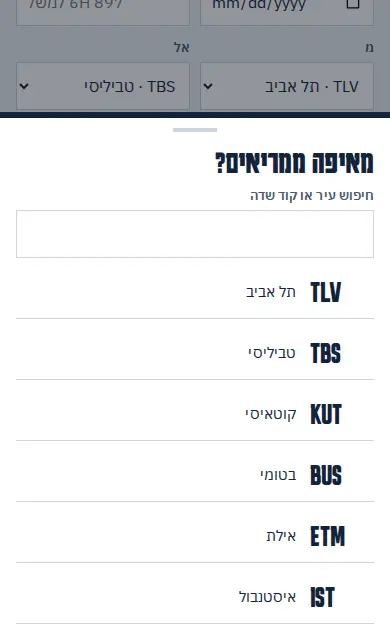
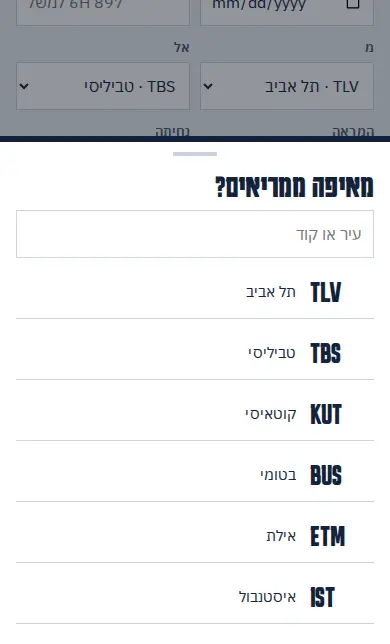
סבב 18: ההצעות בלי שורות הסבר, לפי הכיוון של פחות טקסט
Claude-Session: https://claude.ai/code/session_018WEovaqXC4kNabe89Cnwoj

Changed region(s): [[0.0, 0.1553, 1.0, 0.3106], [0.7692, 0.3416, 0.9231, 0.3727]]

diff --git a/design/canvas/project/R18-0-Decide.dc.html b/design/canvas/project/R18-0-Decide.dc.html
@@ -12,9 +12,9 @@
 body{margin:0;background:#EEF2F5}
 </style>
 </helmet>
-<div style="width: 600px; height: 1380px; box-sizing: border-box; padding: 28px; background: #FFFFFF; color: #13233A; font-family: 'IBM Plex Sans Hebrew', system-ui, sans-serif; direction: rtl; border-top: 8px solid #1F5FC4"><h1 style="margin: 0; font-family: Karantina, 'Arial Narrow', sans-serif; font-size: 52px; line-height: 1">מה לאשר בסבב 18</h1><p style="margin: 8px 0 14px; font-size: 14.5px; line-height: 1.55; color: #4B5A6F">ביקשת יישור מלא בין האתר לאפליקציה (החלטות 50 ו-57). כאן כל מה שמחכה למבט שלך לפני קוד: לכל פריט, מה יש היום בכל צד ומה מוצע. באתר ההצעות מצוירות בתוך האתר האמיתי, ובאפליקציה מעל צילומים מהאמולטור. השמות מומצאים. ברירת המחדל: הצד שחסר מתיישר לצד שיש לו, ובמראה האפליקציה מתיישרת לאתר.</p><ol style="margin: 0; padding: 0; list-style: none"><li style="display: flex; flex-direction: column; gap: 2px; padding: 9px 0; border-top: 1px solid #CBD5DF"><b style="font-size: 16px">1. K-2 · טיסת החזור באתר</b><span style="font-size: 14px; line-height: 1.55; color: #4B5A6F">כרטיס לכל טיסה, הלוך וחזור, לפי התאריך, כל אחד עם מי שעליו ו&quot;אני על אותה טיסה&quot;. בכרטיס של האתר.</span></li><li style="display: flex; flex-direction: column; gap: 2px; padding: 9px 0; border-top: 1px solid #CBD5DF"><b style="font-size: 16px">2. K-3 · מילוי טיסה לחבר באתר</b><span style="font-size: 14px; line-height: 1.55; color: #4B5A6F">קודם בחירה מהטיסות שכבר בקבוצה; &quot;טיסה אחרת&quot; פותחת את הטופס המלא של &quot;הטיול שלך&quot;, &quot;הטיסה של &lt;שם&gt;&quot;.</span></li><li style="display: flex; flex-direction: column; gap: 2px; padding: 9px 0; border-top: 1px solid #CBD5DF"><b style="font-size: 16px">3. K-3 · מפגשים באתר</b><span style="font-size: 14px; line-height: 1.55; color: #4B5A6F">מחיקה בשתי נגיעות (&quot;בטוח? לחיצה נוספת מוחקת&quot;), נגיעה בשורה פותחת את כרטיס המפגש, ובלי קליטה הערה עם השעה במקום שגיאה אדומה.</span></li><li style="display: flex; flex-direction: column; gap: 2px; padding: 9px 0; border-top: 1px solid #CBD5DF"><b style="font-size: 16px">4. K-4 · &quot;הקבוצות שלי&quot; באפליקציה</b><span style="font-size: 14px; line-height: 1.55; color: #4B5A6F">הרשימה של האתר בדף החשבון, לפי תאריך ההתחלה.</span></li><li style="display: flex; flex-direction: column; gap: 2px; padding: 9px 0; border-top: 1px solid #CBD5DF"><b style="font-size: 16px">5. K-5 · שדות התעופה באתר</b><span style="font-size: 14px; line-height: 1.55; color: #4B5A6F">הגיליון עם החיפוש של האפליקציה.</span></li><li style="display: flex; flex-direction: column; gap: 2px; padding: 9px 0; border-top: 1px solid #CBD5DF"><b style="font-size: 16px">6. K-5 · שאלה: מה מותר להקליד</b><span style="font-size: 14px; line-height: 1.55; color: #4B5A6F"><b style="color: #13233A">ההמלצה שלי: מהרשימה, או קוד של שלוש אותיות שלא ברשימה, בלי שם חופשי, ואותו כלל בשני הצדדים.</b> הכרטיס בדף הבית מציג את השדה באותיות ענק, ושם חופשי (&quot;ברלין שנפלד&quot;) שובר אותו ואת הקיבוץ של &quot;מי טס יחד&quot;. מי שטס משדה נדיר מקליד את הקוד מהכרטיס שלו. המחיר: באפליקציה נעלם השם החופשי שקיים היום. החלופה: שם חופשי בשני הצדדים, והכרטיס מקצר אותו.</span></li><li style="display: flex; flex-direction: column; gap: 2px; padding: 9px 0; border-top: 1px solid #CBD5DF"><b style="font-size: 16px">7. יצירת קבוצה באתר</b><span style="font-size: 14px; line-height: 1.55; color: #4B5A6F">תאריכים מהטיול, ומתג &quot;להציג את הטיסה שלי בקבוצה&quot;, דולק, רק כשיש טיול. ברכיב המתג של האתר.</span></li><li style="display: flex; flex-direction: column; gap: 2px; padding: 9px 0; border-top: 1px solid #CBD5DF"><b style="font-size: 16px">8. P-K2 · יום ולילה באפליקציה</b><span style="font-size: 14px; line-height: 1.55; color: #4B5A6F">הכפתור מראה את המצב: חצי עיגול, שמש או ירח, בכפתור העגול של האתר.</span></li><li style="display: flex; flex-direction: column; gap: 2px; padding: 9px 0; border-top: 1px solid #CBD5DF"><b style="font-size: 16px">9. A-28 · גופן באנגלית באפליקציה</b><span style="font-size: 14px; line-height: 1.55; color: #4B5A6F">IBM Plex Sans בתוויות המפה ובתמונת המפגש באנגלית, כמו באתר.</span></li><li style="display: flex; flex-direction: column; gap: 2px; padding: 9px 0; border-top: 1px solid #CBD5DF"><b style="font-size: 16px">10. A-24 · רישיונות באפליקציה</b><span style="font-size: 14px; line-height: 1.55; color: #4B5A6F">שורה &quot;רישיונות קוד פתוח&quot; בסוף הקרדיטים, רשימה, והטקסט המלא. באתר לא נדרש.</span></li><li style="display: flex; flex-direction: column; gap: 2px; padding: 9px 0; border-top: 1px solid #CBD5DF"><b style="font-size: 16px">11. פערי המראה</b><span style="font-size: 14px; line-height: 1.55; color: #4B5A6F">האפליקציה מתיישרת לאתר של היום: הלילה, המתג, הלשוניות, השלג, השלט וכותרת דף הבית. <b style="color: #13233A">חוץ מכרטיס ההזמנה, שבו האתר מתיישר לאפליקציה.</b> אם תבחר שפה עיצובית חדשה (הקנבס הנפרד), היא מחליפה את שניהם, וכל השורה הזו נדחית אליה.</span></li><li style="display: flex; flex-direction: column; gap: 2px; padding: 9px 0; border-top: 1px solid #CBD5DF"><b style="font-size: 16px">12. מי מממש</b><span style="font-size: 14px; line-height: 1.55; color: #4B5A6F">אחרי האישור: האתר אצל סשן האתר, האפליקציה אצל סשן האנדרואיד, ושומר היישור מחלק ובודק בשני הצדדים. שום דבר לא נבנה לפני שתאשר.</span></li></ol></div>
+<div style="width: 600px; height: 1500px; box-sizing: border-box; padding: 28px; background: #FFFFFF; color: #13233A; font-family: 'IBM Plex Sans Hebrew', system-ui, sans-serif; direction: rtl; border-top: 8px solid #1F5FC4"><h1 style="margin: 0; font-family: Karantina, 'Arial Narrow', sans-serif; font-size: 52px; line-height: 1">מה לאשר בסבב 18</h1><p style="margin: 8px 0 14px; font-size: 14.5px; line-height: 1.55; color: #4B5A6F">ביקשת יישור מלא בין האתר לאפליקציה (החלטות 50 ו-57). כאן כל מה שמחכה למבט שלך לפני קוד: לכל פריט, מה יש היום בכל צד ומה מוצע. באתר ההצעות מצוירות בתוך האתר האמיתי, ובאפליקציה מעל צילומים מהאמולטור. השמות מומצאים. ברירת המחדל: הצד שחסר מתיישר לצד שיש לו, ובמראה האפליקציה מתיישרת לאתר.</p><ol style="margin: 0; padding: 0; list-style: none"><li style="display: flex; flex-direction: column; gap: 2px; padding: 9px 0; border-top: 1px solid #CBD5DF"><b style="font-size: 16px">1. פחות טקסט (עודכן 6.10.2026)</b><span style="font-size: 14px; line-height: 1.55; color: #4B5A6F">לפי ההערה שלך על עודף טקסט, ההצעות בסבב הזה בלי שורות הסבר: חץ במקום &quot;בחירה&quot; ו&quot;לכרטיס המפגש&quot;, כפתור &quot;מחיקה&quot; במקום משפט אזהרה, שעת השמירה עם סמל במקום משפט, וחיפוש בלי תווית. <b style="color: #13233A">העבודה המלאה על הטקסט בכל המסכים היא סבב 20.</b></span></li><li style="display: flex; flex-direction: column; gap: 2px; padding: 9px 0; border-top: 1px solid #CBD5DF"><b style="font-size: 16px">2. K-2 · טיסת החזור באתר</b><span style="font-size: 14px; line-height: 1.55; color: #4B5A6F">כרטיס לכל טיסה, הלוך וחזור, לפי התאריך, כל אחד עם מי שעליו ו&quot;אני על אותה טיסה&quot;. בכרטיס של האתר.</span></li><li style="display: flex; flex-direction: column; gap: 2px; padding: 9px 0; border-top: 1px solid #CBD5DF"><b style="font-size: 16px">3. K-3 · מילוי טיסה לחבר באתר</b><span style="font-size: 14px; line-height: 1.55; color: #4B5A6F">קודם בחירה מהטיסות שכבר בקבוצה; &quot;טיסה אחרת&quot; פותחת את הטופס המלא של &quot;הטיול שלך&quot;, &quot;הטיסה של &lt;שם&gt;&quot;.</span></li><li style="display: flex; flex-direction: column; gap: 2px; padding: 9px 0; border-top: 1px solid #CBD5DF"><b style="font-size: 16px">4. K-3 · מפגשים באתר</b><span style="font-size: 14px; line-height: 1.55; color: #4B5A6F">מחיקה בשתי נגיעות (ה-X הופך לכפתור אדום &quot;מחיקה&quot;), חץ ונגיעה בשורה פותחים את כרטיס המפגש, ובלי קליטה סמל ושעת השמירה במקום שגיאה אדומה.</span></li><li style="display: flex; flex-direction: column; gap: 2px; padding: 9px 0; border-top: 1px solid #CBD5DF"><b style="font-size: 16px">5. K-4 · &quot;הקבוצות שלי&quot; באפליקציה</b><span style="font-size: 14px; line-height: 1.55; color: #4B5A6F">הרשימה של האתר בדף החשבון, לפי תאריך ההתחלה.</span></li><li style="display: flex; flex-direction: column; gap: 2px; padding: 9px 0; border-top: 1px solid #CBD5DF"><b style="font-size: 16px">6. K-5 · שדות התעופה באתר</b><span style="font-size: 14px; line-height: 1.55; color: #4B5A6F">הגיליון עם החיפוש של האפליקציה.</span></li><li style="display: flex; flex-direction: column; gap: 2px; padding: 9px 0; border-top: 1px solid #CBD5DF"><b style="font-size: 16px">7. K-5 · שאלה: מה מותר להקליד</b><span style="font-size: 14px; line-height: 1.55; color: #4B5A6F"><b style="color: #13233A">ההמלצה שלי: מהרשימה, או קוד של שלוש אותיות שלא ברשימה, בלי שם חופשי, ואותו כלל בשני הצדדים.</b> הכרטיס בדף הבית מציג את השדה באותיות ענק, ושם חופשי (&quot;ברלין שנפלד&quot;) שובר אותו ואת הקיבוץ של &quot;מי טס יחד&quot;. מי שטס משדה נדיר מקליד את הקוד מהכרטיס שלו. המחיר: באפליקציה נעלם השם החופשי שקיים היום. החלופה: שם חופשי בשני הצדדים, והכרטיס מקצר אותו.</span></li><li style="display: flex; flex-direction: column; gap: 2px; padding: 9px 0; border-top: 1px solid #CBD5DF"><b style="font-size: 16px">8. יצירת קבוצה באתר</b><span style="font-size: 14px; line-height: 1.55; color: #4B5A6F">תאריכים מהטיול, ומתג &quot;להציג את הטיסה שלי בקבוצה&quot;, דולק, רק כשיש טיול. ברכיב המתג של האתר.</span></li><li style="display: flex; flex-direction: column; gap: 2px; padding: 9px 0; border-top: 1px solid #CBD5DF"><b style="font-size: 16px">9. P-K2 · יום ולילה באפליקציה</b><span style="font-size: 14px; line-height: 1.55; color: #4B5A6F">הכפתור מראה את המצב: חצי עיגול, שמש או ירח, בכפתור העגול של האתר.</span></li><li style="display: flex; flex-direction: column; gap: 2px; padding: 9px 0; border-top: 1px solid #CBD5DF"><b style="font-size: 16px">10. A-28 · גופן באנגלית באפליקציה</b><span style="font-size: 14px; line-height: 1.55; color: #4B5A6F">IBM Plex Sans בתוויות המפה ובתמונת המפגש באנגלית, כמו באתר.</span></li><li style="display: flex; flex-direction: column; gap: 2px; padding: 9px 0; border-top: 1px solid #CBD5DF"><b style="font-size: 16px">11. A-24 · רישיונות באפליקציה</b><span style="font-size: 14px; line-height: 1.55; color: #4B5A6F">שורה &quot;רישיונות קוד פתוח&quot; בסוף הקרדיטים, רשימה, והטקסט המלא. באתר לא נדרש.</span></li><li style="display: flex; flex-direction: column; gap: 2px; padding: 9px 0; border-top: 1px solid #CBD5DF"><b style="font-size: 16px">12. פערי המראה</b><span style="font-size: 14px; line-height: 1.55; color: #4B5A6F">האפליקציה מתיישרת לאתר של היום: הלילה, המתג, הלשוניות, השלג, השלט וכותרת דף הבית. <b style="color: #13233A">חוץ מכרטיס ההזמנה, שבו האתר מתיישר לאפליקציה.</b> אם תבחר שפה עיצובית חדשה (הקנבס הנפרד), היא מחליפה את שניהם, וכל השורה הזו נדחית אליה.</span></li><li style="display: flex; flex-direction: column; gap: 2px; padding: 9px 0; border-top: 1px solid #CBD5DF"><b style="font-size: 16px">13. מי מממש</b><span style="font-size: 14px; line-height: 1.55; color: #4B5A6F">אחרי האישור: האתר אצל סשן האתר, האפליקציה אצל סשן האנדרואיד, ושומר היישור מחלק ובודק בשני הצדדים. שום דבר לא נבנה לפני שתאשר.</span></li></ol></div>
 </x-dc>
-<script type="text/x-dc" data-dc-script data-props='{"$preview":{"width":600,"height":1380}}'>
+<script type="text/x-dc" data-dc-script data-props='{"$preview":{"width":600,"height":1500}}'>
 class Component extends DCLogic {
   renderVals() { return {}; }
 }

diff --git a/design/canvas/project/R18-K3a.dc.html b/design/canvas/project/R18-K3a.dc.html
@@ -12,7 +12,7 @@
 body{margin:0;background:#EEF2F5}
 </style>
 </helmet>
-<div style="width: 1684px; height: 864px; box-sizing: border-box; padding: 20px; display: flex; flex-direction: column; gap: 12px; background: #FFFFFF; color: #13233A; font-family: 'IBM Plex Sans Hebrew', system-ui, sans-serif; direction: rtl"><div style="display: flex; flex-direction: column; gap: 4px; height: 108px; max-width: 1644px"><b style="font-family: Karantina, 'Arial Narrow', sans-serif; font-size: 34px; line-height: 1">K-3 · מנהל ממלא טיסה לחבר</b><span style="font-size: 14px; line-height: 1.45; color: #4B5A6F">באתר טופס מקוצר (שלושה שדות תעופה, בלי שעת נחיתה ובלי טיסת חזור). ההצעה: כמו באפליקציה, קודם בחירה מהטיסות שכבר בקבוצה, ו&quot;טיסה אחרת&quot; פותחת את הטופס המלא של &quot;הטיול שלך&quot; עם הכותרת &quot;הטיסה של &lt;שם&gt;&quot;.</span></div><div style="display: flex; gap: 28px; align-items: flex-start"><div style="display: flex; flex-direction: column; gap: 18px; width: 390px"><b style="height: 16px; font-size: 15px; color: #1F5FC4">באתר היום</b><img src="/_blob/0af9dac8c10b918f82b8ce0d35b158ee" alt="באתר היום" style="display: block; width: 390px; height: 670px; box-shadow: 0 0 0 1px #CBD5DF"></div><div style="display: flex; flex-direction: column; gap: 18px; width: 390px"><b style="height: 16px; font-size: 15px; color: #1F5FC4">באפליקציה היום: &quot;טיסה אחרת&quot;</b><img src="/_blob/8ddc6d30c9c693061fe8c16b54534fde" alt="באפליקציה היום: &quot;טיסה אחרת&quot;" style="display: block; width: 390px; height: 620px; box-shadow: 0 0 0 1px #CBD5DF"></div><div style="display: flex; flex-direction: column; gap: 18px; width: 390px"><b style="height: 16px; font-size: 15px; color: #1F5FC4">ההצעה לאתר: הבחירה</b><img src="/_blob/bec70752947369e461bce877fac25f96" alt="ההצעה לאתר: הבחירה" style="display: block; width: 390px; height: 570px; box-shadow: 0 0 0 1px #CBD5DF"></div><div style="display: flex; flex-direction: column; gap: 18px; width: 390px"><b style="height: 16px; font-size: 15px; color: #1F5FC4">ואחר כך הטופס המלא</b><img src="/_blob/082252f5f5c09c47d7ccbd74967ad15d" alt="ואחר כך הטופס המלא" style="display: block; width: 390px; height: 560px; box-shadow: 0 0 0 1px #CBD5DF"></div></div></div>
+<div style="width: 1684px; height: 864px; box-sizing: border-box; padding: 20px; display: flex; flex-direction: column; gap: 12px; background: #FFFFFF; color: #13233A; font-family: 'IBM Plex Sans Hebrew', system-ui, sans-serif; direction: rtl"><div style="display: flex; flex-direction: column; gap: 4px; height: 108px; max-width: 1644px"><b style="font-family: Karantina, 'Arial Narrow', sans-serif; font-size: 34px; line-height: 1">K-3 · מנהל ממלא טיסה לחבר</b><span style="font-size: 14px; line-height: 1.45; color: #4B5A6F">באתר טופס מקוצר (שלושה שדות תעופה, בלי שעת נחיתה ובלי טיסת חזור). ההצעה: כמו באפליקציה, קודם בחירה מהטיסות שכבר בקבוצה, ו&quot;טיסה אחרת&quot; פותחת את הטופס המלא של &quot;הטיול שלך&quot; עם הכותרת &quot;הטיסה של &lt;שם&gt;&quot;.</span></div><div style="display: flex; gap: 28px; align-items: flex-start"><div style="display: flex; flex-direction: column; gap: 18px; width: 390px"><b style="height: 16px; font-size: 15px; color: #1F5FC4">באתר היום</b><img src="/_blob/0af9dac8c10b918f82b8ce0d35b158ee" alt="באתר היום" style="display: block; width: 390px; height: 670px; box-shadow: 0 0 0 1px #CBD5DF"></div><div style="display: flex; flex-direction: column; gap: 18px; width: 390px"><b style="height: 16px; font-size: 15px; color: #1F5FC4">באפליקציה היום: &quot;טיסה אחרת&quot;</b><img src="/_blob/8ddc6d30c9c693061fe8c16b54534fde" alt="באפליקציה היום: &quot;טיסה אחרת&quot;" style="display: block; width: 390px; height: 620px; box-shadow: 0 0 0 1px #CBD5DF"></div><div style="display: flex; flex-direction: column; gap: 18px; width: 390px"><b style="height: 16px; font-size: 15px; color: #1F5FC4">ההצעה לאתר: הבחירה</b><img src="/_blob/81c73dd6db324ffb1ceb6105b4e23bb4" alt="ההצעה לאתר: הבחירה" style="display: block; width: 390px; height: 570px; box-shadow: 0 0 0 1px #CBD5DF"></div><div style="display: flex; flex-direction: column; gap: 18px; width: 390px"><b style="height: 16px; font-size: 15px; color: #1F5FC4">ואחר כך הטופס המלא</b><img src="/_blob/5e704bed2d19a04f8f09dad5a8c66c87" alt="ואחר כך הטופס המלא" style="display: block; width: 390px; height: 560px; box-shadow: 0 0 0 1px #CBD5DF"></div></div></div>
 </x-dc>
 <script type="text/x-dc" data-dc-script data-props='{"$preview":{"width":1684,"height":864}}'>
 class Component extends DCLogic {

diff --git a/design/canvas/project/R18-K5.dc.html b/design/canvas/project/R18-K5.dc.html
@@ -12,7 +12,7 @@
 body{margin:0;background:#EEF2F5}
 </style>
 </helmet>
-<div style="width: 1684px; height: 1014px; box-sizing: border-box; padding: 20px; display: flex; flex-direction: column; gap: 12px; background: #FFFFFF; color: #13233A; font-family: 'IBM Plex Sans Hebrew', system-ui, sans-serif; direction: rtl"><div style="display: flex; flex-direction: column; gap: 4px; height: 108px; max-width: 1644px"><b style="font-family: Karantina, 'Arial Narrow', sans-serif; font-size: 34px; line-height: 1">K-5 · שדות התעופה, ושאלה לך</b><span style="font-size: 14px; line-height: 1.45; color: #4B5A6F">באתר רשימה של שלושה ו&quot;אחר&quot; עם קוד של שלוש אותיות. באפליקציה גיליון עם חיפוש, ואפשר גם שם חופשי. ההצעה: הגיליון של האפליקציה גם באתר. והכלל, אותו כלל בשני הצדדים, בכרטיס &quot;מה לאשר&quot;.</span></div><div style="display: flex; gap: 28px; align-items: flex-start"><div style="display: flex; flex-direction: column; gap: 18px; width: 390px"><b style="height: 16px; font-size: 15px; color: #1F5FC4">באתר היום</b><img src="/_blob/831e537399f33abe46201d7ce0391afb" alt="באתר היום" style="display: block; width: 390px; height: 460px; box-shadow: 0 0 0 1px #CBD5DF"></div><div style="display: flex; flex-direction: column; gap: 18px; width: 390px"><b style="height: 16px; font-size: 15px; color: #1F5FC4">באפליקציה היום</b><img src="/_blob/d1e9673d6bb2c342c5497cfa03aa1c21" alt="באפליקציה היום" style="display: block; width: 390px; height: 820px; box-shadow: 0 0 0 1px #CBD5DF"></div><div style="display: flex; flex-direction: column; gap: 18px; width: 390px"><b style="height: 16px; font-size: 15px; color: #1F5FC4">ההצעה לאתר: הגיליון</b><img src="/_blob/c09df260d615b356fca646fbb8ef9737" alt="ההצעה לאתר: הגיליון" style="display: block; width: 390px; height: 644px; box-shadow: 0 0 0 1px #CBD5DF"></div><div style="display: flex; flex-direction: column; gap: 18px; width: 390px"><b style="height: 16px; font-size: 15px; color: #1F5FC4">קוד שלא ברשימה</b><img src="/_blob/05ee438159dc18814727fc3b8e9aed53" alt="קוד שלא ברשימה" style="display: block; width: 390px; height: 324px; box-shadow: 0 0 0 1px #CBD5DF"></div></div></div>
+<div style="width: 1684px; height: 1014px; box-sizing: border-box; padding: 20px; display: flex; flex-direction: column; gap: 12px; background: #FFFFFF; color: #13233A; font-family: 'IBM Plex Sans Hebrew', system-ui, sans-serif; direction: rtl"><div style="display: flex; flex-direction: column; gap: 4px; height: 108px; max-width: 1644px"><b style="font-family: Karantina, 'Arial Narrow', sans-serif; font-size: 34px; line-height: 1">K-5 · שדות התעופה, ושאלה לך</b><span style="font-size: 14px; line-height: 1.45; color: #4B5A6F">באתר רשימה של שלושה ו&quot;אחר&quot; עם קוד של שלוש אותיות. באפליקציה גיליון עם חיפוש, ואפשר גם שם חופשי. ההצעה: הגיליון של האפליקציה גם באתר. והכלל, אותו כלל בשני הצדדים, בכרטיס &quot;מה לאשר&quot;.</span></div><div style="display: flex; gap: 28px; align-items: flex-start"><div style="display: flex; flex-direction: column; gap: 18px; width: 390px"><b style="height: 16px; font-size: 15px; color: #1F5FC4">באתר היום</b><img src="/_blob/831e537399f33abe46201d7ce0391afb" alt="באתר היום" style="display: block; width: 390px; height: 460px; box-shadow: 0 0 0 1px #CBD5DF"></div><div style="display: flex; flex-direction: column; gap: 18px; width: 390px"><b style="height: 16px; font-size: 15px; color: #1F5FC4">באפליקציה היום</b><img src="/_blob/d1e9673d6bb2c342c5497cfa03aa1c21" alt="באפליקציה היום" style="display: block; width: 390px; height: 820px; box-shadow: 0 0 0 1px #CBD5DF"></div><div style="display: flex; flex-direction: column; gap: 18px; width: 390px"><b style="height: 16px; font-size: 15px; color: #1F5FC4">ההצעה לאתר: הגיליון</b><img src="/_blob/773d50ec39953a7d8048780949d21e29" alt="ההצעה לאתר: הגיליון" style="display: block; width: 390px; height: 644px; box-shadow: 0 0 0 1px #CBD5DF"></div><div style="display: flex; flex-direction: column; gap: 18px; width: 390px"><b style="height: 16px; font-size: 15px; color: #1F5FC4">קוד שלא ברשימה</b><img src="/_blob/aa4116ca436accad4b3a52dad6405cd5" alt="קוד שלא ברשימה" style="display: block; width: 390px; height: 324px; box-shadow: 0 0 0 1px #CBD5DF"></div></div></div>
 </x-dc>
 <script type="text/x-dc" data-dc-script data-props='{"$preview":{"width":1684,"height":1014}}'>
 class Component extends DCLogic {

diff --git a/design/canvas/project/R18-A24.dc.html b/design/canvas/project/R18-A24.dc.html
@@ -12,7 +12,7 @@
 body{margin:0;background:#EEF2F5}
 </style>
 </helmet>
-<div style="width: 1684px; height: 1038px; box-sizing: border-box; padding: 20px; display: flex; flex-direction: column; gap: 12px; background: #FFFFFF; color: #13233A; font-family: 'IBM Plex Sans Hebrew', system-ui, sans-serif; direction: rtl"><div style="display: flex; flex-direction: column; gap: 4px; height: 108px; max-width: 1644px"><b style="font-family: Karantina, 'Arial Narrow', sans-serif; font-size: 34px; line-height: 1">A-24 · מסך רישיונות באפליקציה</b><span style="font-size: 14px; line-height: 1.45; color: #4B5A6F">הרישיונות של הספריות והגופנים (Apache, MIT, OFL) דורשים להציג את הטקסט המלא. הטקסטים כבר ארוזים באפליקציה, ואין מסך שמציג אותם. באתר אין צורך: הקרדיטים מספיקים שם. ההצעה: שורה בסוף הקרדיטים, רשימה, וטקסט.</span></div><div style="display: flex; gap: 28px; align-items: flex-start"><div style="display: flex; flex-direction: column; gap: 18px; width: 390px"><b style="height: 16px; font-size: 15px; color: #1F5FC4">באפליקציה היום: הקרדיטים</b><img src="/_blob/6281bc09bbdb172aaf858124e636de10" alt="באפליקציה היום: הקרדיטים" style="display: block; width: 390px; height: 400px; box-shadow: 0 0 0 1px #CBD5DF"></div><div style="display: flex; flex-direction: column; gap: 18px; width: 390px"><b style="height: 16px; font-size: 15px; color: #1F5FC4">ההצעה: השורה</b><img src="/_blob/3b015f922a60bc260ec4d8c4578a9f56" alt="ההצעה: השורה" style="display: block; width: 390px; height: 485px; box-shadow: 0 0 0 1px #CBD5DF"></div><div style="display: flex; flex-direction: column; gap: 18px; width: 390px"><b style="height: 16px; font-size: 15px; color: #1F5FC4">הרשימה</b><img src="/_blob/d6a00b38b177973a0ff179401aab8f71" alt="הרשימה" style="display: block; width: 390px; height: 844px; box-shadow: 0 0 0 1px #CBD5DF"></div><div style="display: flex; flex-direction: column; gap: 18px; width: 390px"><b style="height: 16px; font-size: 15px; color: #1F5FC4">הטקסט</b><img src="/_blob/12689bbc93a60abd0f905a3fbaa7002d" alt="הטקסט" style="display: block; width: 390px; height: 700px; box-shadow: 0 0 0 1px #CBD5DF"></div></div></div>
+<div style="width: 1684px; height: 1038px; box-sizing: border-box; padding: 20px; display: flex; flex-direction: column; gap: 12px; background: #FFFFFF; color: #13233A; font-family: 'IBM Plex Sans Hebrew', system-ui, sans-serif; direction: rtl"><div style="display: flex; flex-direction: column; gap: 4px; height: 108px; max-width: 1644px"><b style="font-family: Karantina, 'Arial Narrow', sans-serif; font-size: 34px; line-height: 1">A-24 · מסך רישיונות באפליקציה</b><span style="font-size: 14px; line-height: 1.45; color: #4B5A6F">הרישיונות של הספריות והגופנים (Apache, MIT, OFL) דורשים להציג את הטקסט המלא. הטקסטים כבר ארוזים באפליקציה, ואין מסך שמציג אותם. באתר אין צורך: הקרדיטים מספיקים שם. ההצעה: שורה בסוף הקרדיטים, רשימה, וטקסט.</span></div><div style="display: flex; gap: 28px; align-items: flex-start"><div style="display: flex; flex-direction: column; gap: 18px; width: 390px"><b style="height: 16px; font-size: 15px; color: #1F5FC4">באפליקציה היום: הקרדיטים</b><img src="/_blob/6281bc09bbdb172aaf858124e636de10" alt="באפליקציה היום: הקרדיטים" style="display: block; width: 390px; height: 400px; box-shadow: 0 0 0 1px #CBD5DF"></div><div style="display: flex; flex-direction: column; gap: 18px; width: 390px"><b style="height: 16px; font-size: 15px; color: #1F5FC4">ההצעה: השורה</b><img src="/_blob/59a09c7c90f13ba1faf64da79b5d876b" alt="ההצעה: השורה" style="display: block; width: 390px; height: 485px; box-shadow: 0 0 0 1px #CBD5DF"></div><div style="display: flex; flex-direction: column; gap: 18px; width: 390px"><b style="height: 16px; font-size: 15px; color: #1F5FC4">הרשימה</b><img src="/_blob/d2d9bbe996beb2e6ed432cdbe3385426" alt="הרשימה" style="display: block; width: 390px; height: 844px; box-shadow: 0 0 0 1px #CBD5DF"></div><div style="display: flex; flex-direction: column; gap: 18px; width: 390px"><b style="height: 16px; font-size: 15px; color: #1F5FC4">הטקסט</b><img src="/_blob/12689bbc93a60abd0f905a3fbaa7002d" alt="הטקסט" style="display: block; width: 390px; height: 700px; box-shadow: 0 0 0 1px #CBD5DF"></div></div></div>
 </x-dc>
 <script type="text/x-dc" data-dc-script data-props='{"$preview":{"width":1684,"height":1038}}'>
 class Component extends DCLogic {

diff --git a/design/canvas/project/R18-K3b.dc.html b/design/canvas/project/R18-K3b.dc.html
@@ -12,7 +12,7 @@
 body{margin:0;background:#EEF2F5}
 </style>
 </helmet>
-<div style="width: 1266px; height: 714px; box-sizing: border-box; padding: 20px; display: flex; flex-direction: column; gap: 12px; background: #FFFFFF; color: #13233A; font-family: 'IBM Plex Sans Hebrew', system-ui, sans-serif; direction: rtl"><div style="display: flex; flex-direction: column; gap: 4px; height: 108px; max-width: 1226px"><b style="font-family: Karantina, 'Arial Narrow', sans-serif; font-size: 34px; line-height: 1">K-3 · מפגשים: מחיקה, נגיעה, &quot;נשמר ב-&quot;</b><span style="font-size: 14px; line-height: 1.45; color: #4B5A6F">שלושה פערים בלשונית המפגשים. מחיקה: באתר נגיעה אחת מוחקת לכולם; ההצעה: שתי נגיעות, כמו באפליקציה. נגיעה בשורה פותחת את כרטיס המפגש (הקישור כבר קיים באתר). ובלי קליטה: הערה רגילה עם השעה, ולא שורת שגיאה אדומה.</span></div><div style="display: flex; gap: 28px; align-items: flex-start"><div style="display: flex; flex-direction: column; gap: 18px; width: 390px"><b style="height: 16px; font-size: 15px; color: #1F5FC4">באתר היום (בלי קליטה)</b><img src="/_blob/c911228a4ab0dc8a193fe36e4e0b8207" alt="באתר היום (בלי קליטה)" style="display: block; width: 390px; height: 520px; box-shadow: 0 0 0 1px #CBD5DF"></div><div style="display: flex; flex-direction: column; gap: 18px; width: 390px"><b style="height: 16px; font-size: 15px; color: #1F5FC4">באפליקציה היום: נגיעה ראשונה ב-X</b><img src="/_blob/1fbdf39649901e5e7d78c4fc40780c9b" alt="באפליקציה היום: נגיעה ראשונה ב-X" style="display: block; width: 390px; height: 410px; box-shadow: 0 0 0 1px #CBD5DF"></div><div style="display: flex; flex-direction: column; gap: 18px; width: 390px"><b style="height: 16px; font-size: 15px; color: #1F5FC4">ההצעה לאתר</b><img src="/_blob/214613e04497bf4fedc3df0891effe83" alt="ההצעה לאתר" style="display: block; width: 390px; height: 300px; box-shadow: 0 0 0 1px #CBD5DF"></div></div></div>
+<div style="width: 1266px; height: 714px; box-sizing: border-box; padding: 20px; display: flex; flex-direction: column; gap: 12px; background: #FFFFFF; color: #13233A; font-family: 'IBM Plex Sans Hebrew', system-ui, sans-serif; direction: rtl"><div style="display: flex; flex-direction: column; gap: 4px; height: 108px; max-width: 1226px"><b style="font-family: Karantina, 'Arial Narrow', sans-serif; font-size: 34px; line-height: 1">K-3 · מפגשים: מחיקה, נגיעה, &quot;נשמר ב-&quot;</b><span style="font-size: 14px; line-height: 1.45; color: #4B5A6F">שלושה פערים בלשונית המפגשים. מחיקה: באתר נגיעה אחת מוחקת לכולם; ההצעה: שתי נגיעות, כמו באפליקציה, כשה-X הופך בנגיעה הראשונה לכפתור אדום &quot;מחיקה&quot; במקום משפט אזהרה. חץ קטן בשורה: נגיעה פותחת את כרטיס המפגש. ובלי קליטה: סמל ושעת השמירה, במקום שורת שגיאה אדומה.</span></div><div style="display: flex; gap: 28px; align-items: flex-start"><div style="display: flex; flex-direction: column; gap: 18px; width: 390px"><b style="height: 16px; font-size: 15px; color: #1F5FC4">באתר היום (בלי קליטה)</b><img src="/_blob/c911228a4ab0dc8a193fe36e4e0b8207" alt="באתר היום (בלי קליטה)" style="display: block; width: 390px; height: 520px; box-shadow: 0 0 0 1px #CBD5DF"></div><div style="display: flex; flex-direction: column; gap: 18px; width: 390px"><b style="height: 16px; font-size: 15px; color: #1F5FC4">באפליקציה היום: נגיעה ראשונה ב-X</b><img src="/_blob/1fbdf39649901e5e7d78c4fc40780c9b" alt="באפליקציה היום: נגיעה ראשונה ב-X" style="display: block; width: 390px; height: 410px; box-shadow: 0 0 0 1px #CBD5DF"></div><div style="display: flex; flex-direction: column; gap: 18px; width: 390px"><b style="height: 16px; font-size: 15px; color: #1F5FC4">ההצעה לאתר</b><img src="/_blob/d64f48ea54d4dcd3bf9717017b7f550e" alt="ההצעה לאתר" style="display: block; width: 390px; height: 300px; box-shadow: 0 0 0 1px #CBD5DF"></div></div></div>
 </x-dc>
 <script type="text/x-dc" data-dc-script data-props='{"$preview":{"width":1266,"height":714}}'>
 class Component extends DCLogic {

diff --git a/design/canvas/project/R18-K4.dc.html b/design/canvas/project/R18-K4.dc.html
@@ -12,7 +12,7 @@
 body{margin:0;background:#EEF2F5}
 </style>
 </helmet>
-<div style="width: 1266px; height: 874px; box-sizing: border-box; padding: 20px; display: flex; flex-direction: column; gap: 12px; background: #FFFFFF; color: #13233A; font-family: 'IBM Plex Sans Hebrew', system-ui, sans-serif; direction: rtl"><div style="display: flex; flex-direction: column; gap: 4px; height: 108px; max-width: 1226px"><b style="font-family: Karantina, 'Arial Narrow', sans-serif; font-size: 34px; line-height: 1">K-4 · &quot;הקבוצות שלי&quot; באפליקציה</b><span style="font-size: 14px; line-height: 1.45; color: #4B5A6F">באתר רשימת הקבוצות בדף החשבון. באפליקציה אין, והשלט &quot;קבוצה&quot; פותח תמיד את הראשונה. ההצעה: הרשימה של האתר בדף החשבון באפליקציה, באותו סדר (לפי תאריך ההתחלה).</span></div><div style="display: flex; gap: 28px; align-items: flex-start"><div style="display: flex; flex-direction: column; gap: 18px; width: 390px"><b style="height: 16px; font-size: 15px; color: #1F5FC4">באתר היום</b><img src="/_blob/d15fd7a1ccf765f3e6b8d3e533dafbe5" alt="באתר היום" style="display: block; width: 390px; height: 600px; box-shadow: 0 0 0 1px #CBD5DF"></div><div style="display: flex; flex-direction: column; gap: 18px; width: 390px"><b style="height: 16px; font-size: 15px; color: #1F5FC4">באפליקציה היום</b><img src="/_blob/ee0d1520580c924365d6b020327f033d" alt="באפליקציה היום" style="display: block; width: 390px; height: 520px; box-shadow: 0 0 0 1px #CBD5DF"></div><div style="display: flex; flex-direction: column; gap: 18px; width: 390px"><b style="height: 16px; font-size: 15px; color: #1F5FC4">ההצעה לאפליקציה</b><img src="/_blob/8957d4b46ef509a69f8b43ebdd121625" alt="ההצעה לאפליקציה" style="display: block; width: 390px; height: 680px; box-shadow: 0 0 0 1px #CBD5DF"></div></div></div>
+<div style="width: 1266px; height: 874px; box-sizing: border-box; padding: 20px; display: flex; flex-direction: column; gap: 12px; background: #FFFFFF; color: #13233A; font-family: 'IBM Plex Sans Hebrew', system-ui, sans-serif; direction: rtl"><div style="display: flex; flex-direction: column; gap: 4px; height: 108px; max-width: 1226px"><b style="font-family: Karantina, 'Arial Narrow', sans-serif; font-size: 34px; line-height: 1">K-4 · &quot;הקבוצות שלי&quot; באפליקציה</b><span style="font-size: 14px; line-height: 1.45; color: #4B5A6F">באתר רשימת הקבוצות בדף החשבון. באפליקציה אין, והשלט &quot;קבוצה&quot; פותח תמיד את הראשונה. ההצעה: הרשימה של האתר בדף החשבון באפליקציה, באותו סדר (לפי תאריך ההתחלה).</span></div><div style="display: flex; gap: 28px; align-items: flex-start"><div style="display: flex; flex-direction: column; gap: 18px; width: 390px"><b style="height: 16px; font-size: 15px; color: #1F5FC4">באתר היום</b><img src="/_blob/d15fd7a1ccf765f3e6b8d3e533dafbe5" alt="באתר היום" style="display: block; width: 390px; height: 600px; box-shadow: 0 0 0 1px #CBD5DF"></div><div style="display: flex; flex-direction: column; gap: 18px; width: 390px"><b style="height: 16px; font-size: 15px; color: #1F5FC4">באפליקציה היום</b><img src="/_blob/ee0d1520580c924365d6b020327f033d" alt="באפליקציה היום" style="display: block; width: 390px; height: 520px; box-shadow: 0 0 0 1px #CBD5DF"></div><div style="display: flex; flex-direction: column; gap: 18px; width: 390px"><b style="height: 16px; font-size: 15px; color: #1F5FC4">ההצעה לאפליקציה</b><img src="/_blob/954040a1e586f9a70d59d7d6db556612" alt="ההצעה לאפליקציה" style="display: block; width: 390px; height: 680px; box-shadow: 0 0 0 1px #CBD5DF"></div></div></div>
 </x-dc>
 <script type="text/x-dc" data-dc-script data-props='{"$preview":{"width":1266,"height":874}}'>
 class Component extends DCLogic {

diff --git a/docs/STATUS.md b/docs/STATUS.md
@@ -318,6 +318,8 @@
 
 - 6.10.2026: **אתרי הסקי הבאים (החלטה 61, מנהל המוצר הראשי):** `research/resorts.md`, 28 אתרים מדורגים בשני צירים (נתונים שעוברים את כללי הדיוק ברישיון מתאים, וקהל, במיוחד ישראלים, אחרי התיקון של פיני שרוסית וגאורגית אינן קהל יעד). המפה הפתוחה נמדדה באמת (ייצוא OpenSkiMap מאותו יום: אורך, ואחוז קטעים עם שם, מספר ודרגת קושי, `research/resorts/osm_metrics.py`); הנתונים הרשמיים, המקורות הפתוחים והרישיונות, והקהל והמתחרים ב-`research/resorts/`, עם קישור ותאריך לכל עובדה. **ההמלצה:** Mayrhofen, אחר כך Grandvalira, ואז Bansko אחרי בדיקה של מומחה הסקי (רק 34 מתוך 75 ק״מ במפה הפתוחה). **ממצאים:** לאף אתר אין ממשק פתוח למצב הרכבלים, וארבעה ספקים מחזיקים רובם; אין שום פילוח של גולשים ישראלים לפי אתר. ארבע שאלות לפיני במסמך, ושאלות לסקירת הארכיטקט (מבנה לכמה אתרים) רשומות שם, בלי תכנון. בלי קוד ובלי פנייה החוצה.
 
+- 6.10.2026: **סבב 18 עודכן לפי הכיוון של "פחות טקסט"** (פיני): בהצעות אין שורות הסבר (חצים, כפתור "מחיקה", סמל ושעה במקום משפטים, חיפוש בלי תווית), ושורה חדשה בכרטיס "מה לאשר". `design/round18/README.md`.
+
 - 6.10.2026: **סבב 18 בקנבס: יישור הקו** (לבקשת סשן המנהל, לפי פיני). בעמוד "סבב 18" בקנבס המשותף, לוח לכל פריט: באתר היום, באפליקציה היום וההצעה, לכל אחד מ-K-2, K-3 (מילוי טיסה לחבר, ומפגשים), K-4, K-5, P-K2, A-28, A-24 (מסך רישיונות באפליקציה), המתג ביצירת קבוצה, ופערי המראה (האפליקציה מתיישרת לאתר, חוץ מכרטיס ההזמנה). כל פריט נבדק שוב מול הקוד בענף הראשי. ההצעות לאתר מצוירות בתוך האתר האמיתי, ולאפליקציה מעל צילומי האמולטור. **שאלה לפיני ב-K-5:** מה מותר להקליד בשדה התעופה (ההמלצה: מהרשימה או קוד של שלוש אותיות, בלי שם חופשי). כרטיס "מה לאשר" עם 12 שורות. שום דבר לא שונה באתר ובאפליקציה (`design/round18/`). **הבא:** אישור של פיני, ואז החלוקה אצל שומר היישור.
 
 - 6.10.2026: **החלטה 61: חזון לכל אתר סקי.** הועבר למנהל המוצר הראשי, עם בדיקת היתכנות לנתונים מול מומחה הסקי ובדיקת קהל מול שיווק וצמיחה. **סבב 18 בקנבס (יישור הקו) הוער** אצל מעצב המוצר, לבקשת פיני ("בוא נתמקד ביישור קו מלא"); שומר היישור רענן את `docs/PARITY.md`, ואין פער פתוח שלא דורש קנבס. **הבא:** הלוחות של סבב 18 לאישור פיני, והרשימה המדורגת של אתרי הסקי.

diff --git a/design/round18/README.md b/design/round18/README.md
@@ -13,6 +13,7 @@
   - `proposals.mjs`: ההצעות לאתר, מצוירות בתוך האתר האמיתי.
   - `app.mjs`: ההצעות לאפליקציה, מעל צילומי האמולטור (`qa.zip` מהגרסה `android-qa`).
   - `build.py`: איסוף, המרה ל-WebP, והלוחות. עותק ב-`design/canvas/project/R18-*`.
+- **עודכן 6.10.2026, אחרי ההערה של פיני על עודף טקסט:** ההצעות בלי שורות הסבר. חץ במקום "בחירה" ו"לכרטיס המפגש", כפתור אדום "מחיקה" במקום משפט אזהרה, סמל ושעת השמירה במקום משפט, וחיפוש בלי תווית. שורה חדשה בראש כרטיס "מה לאשר". העבודה המלאה על הטקסט: סבב 20.
 - **אחרי האישור:** האתר אצל סשן האתר, האפליקציה אצל סשן האנדרואיד, ושומר היישור מחלק ובודק.
 
 ## איך ממשיכים (מה שנכתב בהשהיה)
